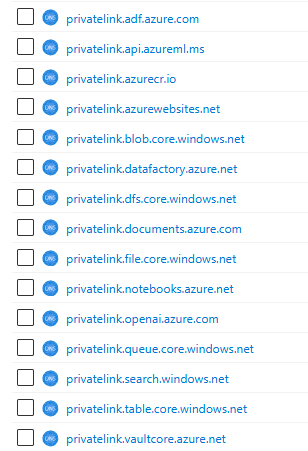
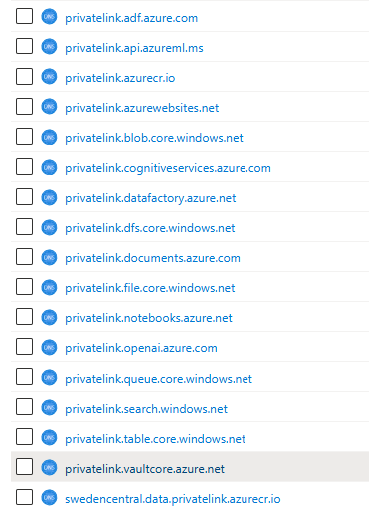
Updated docs: networking

Changed region(s): [[0.0292, 0.0, 0.8182, 0.9933]]

diff --git a/documentation/v2/10-19/14-networking-privateDNS.md b/documentation/v2/10-19/14-networking-privateDNS.md
@@ -44,12 +44,43 @@ You can choose to have Private DNS Zones Centrally in HUB (recommended) or in th
     - **Project team**: The code repository, where AIFactory (MLops,LLMOps) Automation and pipeline resides
 
 ## Private DNS zones  in the AIFactory, to support AIFactory project types: ESML, ESGenAI
-Private DNS zones, needed. 
+Private DNS zones - Compute, Storage, WebApp, CosmosDB: 
 
-![](./images/13-setup-aifactory-hub-privateDnsZonesListAll.png)
+|Service |Private DNS Zone Name | Public DNS zone forwarders | Subresource | Description|
+|---|---|---|---|---|
+|Azure Datafactory |privatelink.adf.azure.com |adf.azure.com | dataFactory |-|
+|Azure Datafactory |privatelink.datafactory.azure.net |datafactory.azure.net| portal |-|
+|Azure Machine Learning |privatelink.api.azureml.ms <br> privatelink.notebooks.azure.net |api.azureml.ms<br>notebooks.azure.net<br>instances.azureml.ms<br>aznbcontent.net<br>inference.ml.azure.com | amlworkspace |-|
+|Azure Container registry|privatelink.azurecr.io<br> `{regionName}.data.privatelink.azurecr.io` |azurecr.io <br>{regionName}.data.azurecr.io |registry| Dependency: Azure Machine Learning, AI studio|
+|Azure Keyvault | privatelink.vaultcore.azure.net |vault.azure.net <br>vaultcore.azure.net|vault| Dependency: Azure Machine Learning |
+|Cognitive Services (Azure OpenAI, Speech, etc) |`privatelink.cognitiveservices.azure.com`<br>privatelink.openai.azure.com |cognitiveservices.azure.com<br>openai.azure.com| account |-|
+|Azure Webapps |privatelink.azurewebsites.net<br>scm.privatelink.azurewebsites.net|azurewebsites.net<br>scm.azurewebsites.net |sites |azureAppServicesPrivateDnsZoneId. Azure App Service hosts Azure Webapps, Azure Functions, Azure Logi Apps, Azure API mgmt. [More info](https://techcommunity.microsoft.com/t5/nonprofit-techies/understanding-azure-web-apps-and-azure-app-service/ba-p/3812572)|
+|Azure Storage |privatelink.blob.core.windows.net |blob.core.windows.net |blob, blob_secondary|-|
+|Azure Storage |privatelink.table.core.windows.net |table.core.windows.net |table, table_secondary|-|
+|Azure Storage |privatelink.queue.core.windows.net |queue.core.windows.net |queue, queue_secondary|-|
+|Azure Storage |privatelink.file.core.windows.net |file.core.windows.net|file|-|
+|Azure Storage |privatelink.dfs.core.windows.net | dfs.core.windows.net |dfs, dfs_secondary|-|
+|Cosmos DB | privatelink.documents.azure.com |documents.azure.com|Sql|-|
+|Cosmos DB | `privatelink.table.cosmos.azure.com` |table.cosmos.azure.com|Table|-|
+|Azure AI Search | privatelink.search.windows.net |search.windows.net|searchService|-|
+|Azure Databricks | `privatelink.azuredatabricks.net` |azuredatabricks.net|databricks_ui_api <br> browser_authentication|-|
+|Azure Databricks | `privatelink.databricks.azure.us` |databricks.azure.us|databricks_ui_api <br> browser_authentication|-|
 
-A) If you run the AIFactory in isolated mode (for DEMO purposes) which is default, they are created automatically via BICEP. 
-B) If you run the AIFactory in production mode, peered to your HUB, which is the recommended way, you need to ensure/create the Private DNS zones manually.
+Private DNS zones - Eventhandling & Monitoring: 
+
+|Service |Private DNS Zone Name | Public DNS zone forwarders | Subresource | Description|
+|---|---|---|---|---|
+|Azure Eventhubs | `privatelink.servicebus.windows.net` |servicebus.windows.net |namespace|-|
+|Azure Eventgrid | `privatelink.eventgrid.azure.net` |eventgrid.azure.net|topic,domain,topicSpace,partnernamespace |Dependency: Azure Datafactory|
+Synaps Analytics|
+|Azure Monitor | `privatelink.monitor.azure.com`<br>`privatelink.oms.opinsights.azure.com`<br>`privatelink.ods.opinsights.azure.com`<br>`privatelink.agentsvc.azure-automation.net`<br>privatelink.blob.core.windows.net |monitor.azure.com<br>oms.opinsights.azure.com<br>ods.opinsights.azure.com<br>agentsvc.azure-automation.net<br>blob.core.windows.net<br>services.visualstudio.com<br>applicationinsights.azure.com|azuremonitor|-|
+
+<!-- |Azure Batch | `{regionName}.privatelink.batch.azure.com` |{regionName}.batch.azure.com|batchAccount|Dependency: Azure Datafactory, Azure Machine Learning, Azure Media Service, Azure Synaps Analytics|
+|Azure Batch | `{regionName}.service.privatelink.batch.azure.com` |{regionName}.service.batch.azure.com|nodeManagement|Dependency: Azure Datafactory, Azure Machine Learning, Azure Media Service, Azure 
+--> 
+
+A) If you run the AIFactory in isolated mode (for DEMO purposes) which is default, they are created automatically via BICEP. <br>
+B) If you run the AIFactory in production mode, peered to your HUB, which is the recommended way, you need to ensure/create the Private DNS zones manually, e.g. no automation in ESML AIFactory yet).
 
 ## AIFactory vNets in its spokes: Dev, Test, Prod - address space
 
@@ -138,9 +169,12 @@ If you do not have central Privat DNS Zones, the DNS forwarding will not work un
 - If the storage account with private endpoint, and users are using both public or private access, it will not work, since users are not in DNS zone.
 
 ### SOLUTION - Private DNS zones: Custom DNS + Azure Policy + Private DNS resolver
-If user are on-premises and tries to connect to a public Azure Machine Learning workspace or storage account, the on-premies DNS will ping the Custom DNS server that will call Azure to provide DNS, that in turn will know the public IP. This will work, if the below actions are taken. 
+If user are on-premises and tries to connect to a public Azure Machine Learning workspace or storage account, the on-premies DNS will ping the Custom DNS server that will call Azure to provide DNS via the private DNS zone, that in turn will know the public IP. This will work, if the below actions are taken. 
 
-Read more about [Private link and DNS integration at scale](https://learn.microsoft.com/en-us/azure/cloud-adoption-framework/ready/azure-best-practices/private-link-and-dns-integration-at-scale)
+Read more: 
+- [Private link and DNS integration at scale](https://learn.microsoft.com/en-us/azure/cloud-adoption-framework/ready/azure-best-practices/private-link-and-dns-integration-at-scale)
+- [DNS-Integration-Scenarios](https://github.com/dmauser/PrivateLink/tree/master/DNS-Integration-Scenarios)
+- [Private Endpoint DNS - private to public](https://learn.microsoft.com/en-us/azure/private-link/private-endpoint-dns)
 
 - Action 1: The custom DNS Server, needs to be in the central HUB
 - Action 2: 63 policys: Assign 4 _Azure policies_ separately and one _policy initiative_ (policy set) with 59 policys. These can be assigned on MGMT group (or subscription).
@@ -153,7 +187,11 @@ Read more about [Private link and DNS integration at scale](https://learn.micros
     - 2a) Define the Azure policy's and the Azure Policy Initiative, by runnig the below two BICEP files under the _esml-util folder: 
         - [28-policy.bicep](../../../../aifactory/esml-util/28-policy.bicep)
         - [28-Initiatives.bicep](../../../../aifactory/esml-util/28-Initiatives.bicep)
-    - 2b) Assign the Azure policys and initiative to the subscriptions [How-to assign an Azure policy](https://learn.microsoft.com/en-us/azure/governance/policy/how-to/programmatically-create#create-and-assign-a-policy-definition)
+    - 2b) Assign the Azure policys and initiative to the subscriptions [How-to assign an Azure policy](https://learn.microsoft.com/en-us/azure/governance/policy/how-to/programmatically-create#create-and-assign-a-policy-definition).
+        - Policy Initiative _Configure Azure PaaS services to use private DNS zones_
+            - Also set all parameters on the initative assignment, Private DNS Id's.
+            - Also set roles: _Network Contributor,Private DNS Zone Contributor,Contributor_ for the initiative MI, to have access to the HUB's Private DNS Zones
+        - ![](./images/13-setup-aifactory-policy-assignment-4-roles.png)
 
     - The below is the 4 separate policys, and the initiative_ with 58 policy's in its policy set that we need to defined and assing to the subscriptions: Dev, Test, Prod application landingzones of the AIFactory:
 
@@ -180,6 +218,8 @@ When setting up a peering from a spoke to a hub in an Azure Enterprise Scale env
 3. **Allow Forwarded Traffic**: Enable this option in both the hub and spoke peering configurations to allow traffic to be forwarded between the networks³⁴.
 
 These settings ensure that traffic can flow smoothly between the spoke and hub, and through the hub to other networks if needed.
+
+![](./images/13-setup-aifactory-peering-portal-config.png)
 
 More info:
 

diff --git a/documentation/v2/10-19/13-setup-aifactory.md b/documentation/v2/10-19/13-setup-aifactory.md
@@ -201,8 +201,8 @@ E.g. if you want to have your Private DNS zones in your HUB, as recommended, e.g
 
 TODO: 
 - **Ensure you have all Private DNS zones**, pre-created in the HUB, manually (util-script are work in in TODO list)
-- **Ensure you have the Azure Policy and Azure Initiative assigned** [needed to add A-records automatically for all A-records to the Private DNS zones](https://www.azadvertizer.net/azpolicyinitiativesadvertizer/Deploy-Private-DNS-Zones.html) in HUB
-    -  - [How-to: Create Azure Policy that adds private link records to centralized private DNZ zones automatically](https://www.azadvertizer.net/azpolicyinitiativesadvertizer/Deploy-Private-DNS-Zones.html)
+- **Ensure you have created vNet Link to the Hub vNet, for all Private DNS Zones**
+- **Ensure you have the Azure Policy and Azure Initiative assigned** [How-To: Networking: peering-of-spookes-to-hub](./14-networking-privateDNS.md#infraaifactory-networking-private-dns-zones-hubspoke-etc-coreteam)
 - **Ensure you have peered the spoke vNets to the Hub** [How-To: Networking: peering-of-spookes-to-hub](./14-networking-privateDNS.md#peering-of-spookes-to-hub)
 - **Ensure you have all settings set in the parameter file** _10-esml-globals-4-13_21_22.json_
     - The parameters: privDnsSubscription_param, privDnsResourceGroup_param, centralDnsZoneByPolicyInHub
